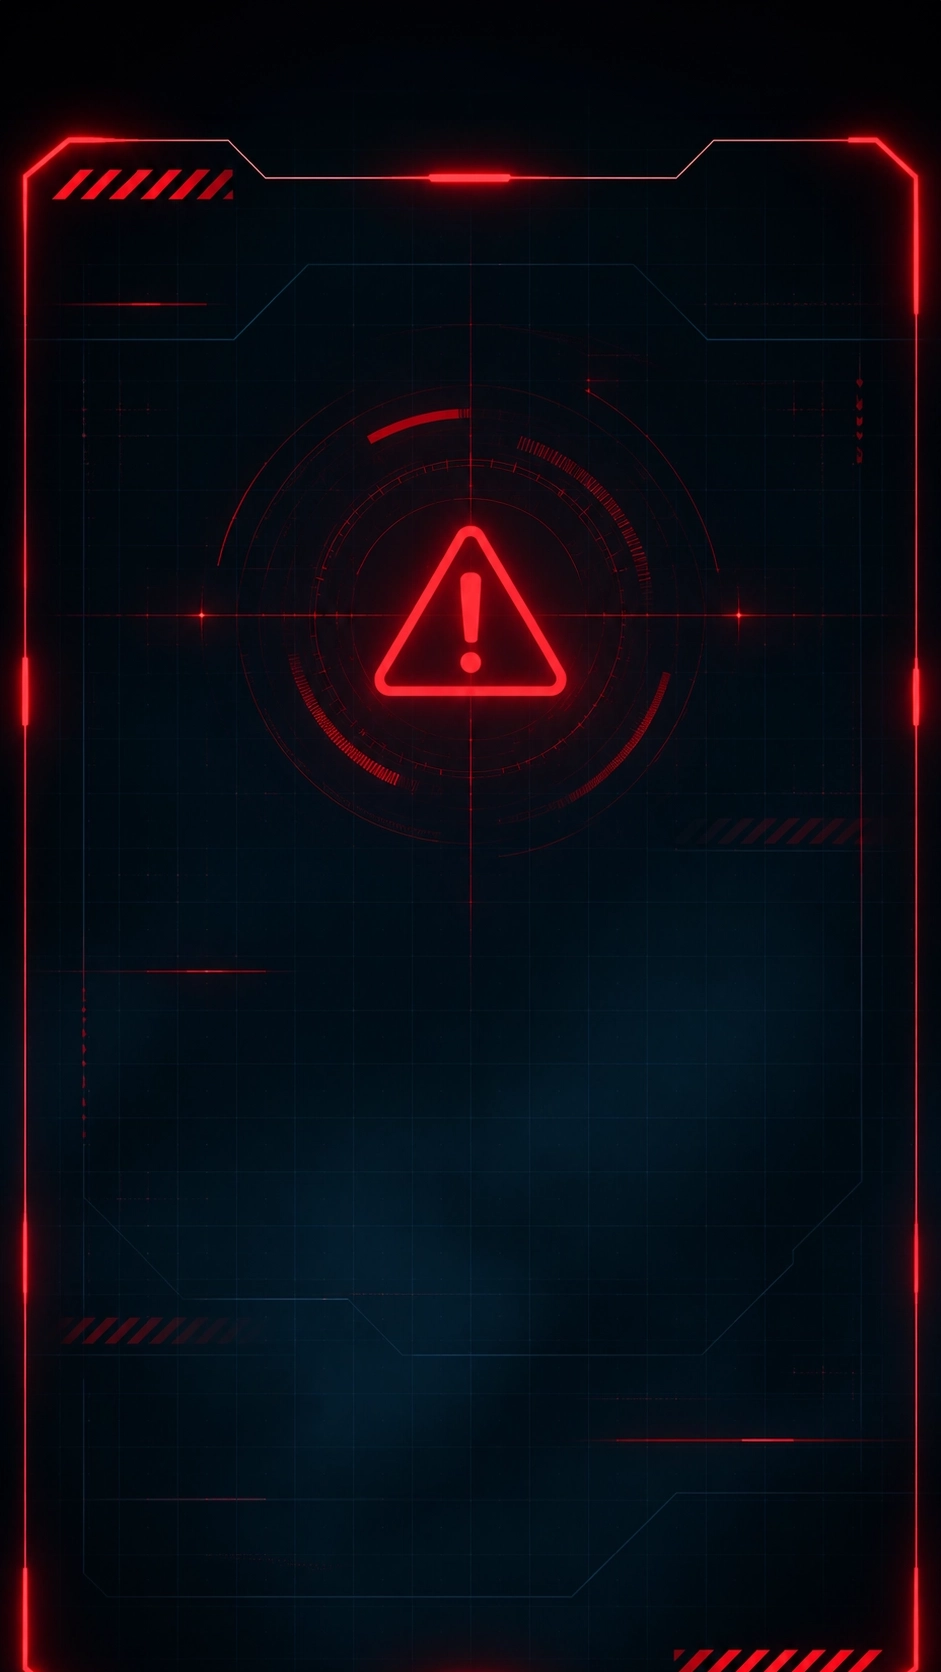
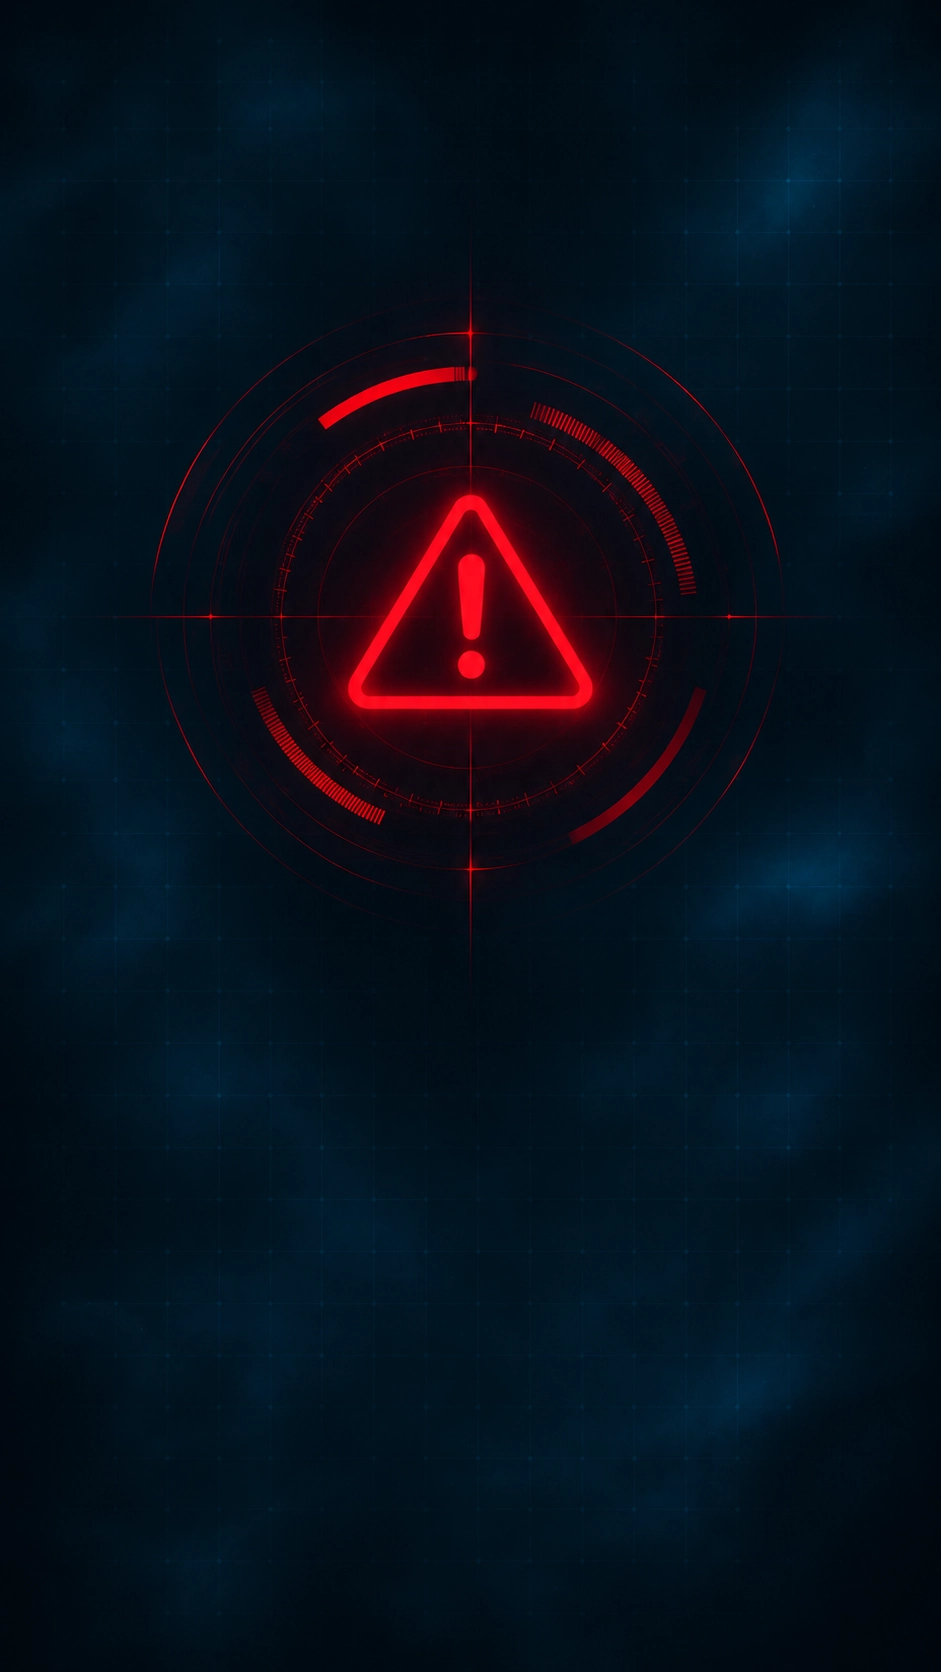
Några små justeringar för responsivitet

diff --git a/css/stylesystemcompromised.css b/css/stylesystemcompromised.css
@@ -1,6 +1,6 @@
 
 body {
-    overflow: hidden;
+    overflow: auto;
 }
 
 body::before {
@@ -12,8 +12,8 @@ body::before {
     width: 100%;
     height: 100lvh;
     background-image:
-        linear-gradient(rgba(120, 145, 165, 0.15),
-            rgba(120, 145, 165, 0.15)),
+        linear-gradient(rgba(120, 145, 165, 0.10),
+            rgba(120, 145, 165, 0.10)),
         url('../images/backgrounsystem_mobile.webp');
     background-size: cover;
     background-position: center;
@@ -24,9 +24,9 @@ body::before {
 .system {
     box-sizing: border-box;
     width: 90%;
-    margin: 3rem auto;
+    margin: 6rem auto 0;
     padding-top: 0.1rem;
-    background-color: rgba(8, 19, 29, 0.4);
+    background-color: rgba(8, 19, 29, 0.8);
     border: 1px solid #D4AF37;
     border-radius: 8px;
     text-align: center;
@@ -55,9 +55,9 @@ body::before {
 .systeminfo {
     box-sizing: border-box;
     width: 90%;
-    margin: 13rem auto;
+    margin: 2rem auto;
     padding-top: 0.1rem;
-    background-color: rgba(8, 19, 29, 0.4);
+    background-color: rgba(8, 19, 29, 0.8);
     border: 1px solid #D4AF37;
     border-radius: 8px;
     text-align: left;
@@ -120,8 +120,8 @@ body::before {
     width: 100%;
     height: 100lvh;
     background-image:
-        linear-gradient(rgba(120, 145, 165, 0.15),
-            rgba(120, 145, 165, 0.15)),
+        linear-gradient(rgba(120, 145, 165, 0.10),
+            rgba(120, 145, 165, 0.10)),
         url('../images/backgrounsystem_desktop.webp');
     background-size: cover;
     background-position: center top;
@@ -132,7 +132,7 @@ body::before {
 .system {
     width: 60%;
     max-width: 1000px;
-    margin: 6rem auto;
+    margin: 15rem auto 0;
 }
 
 .system h1 {
@@ -145,7 +145,7 @@ body::before {
 
 .systeminfo {
     width: 60%;
-    margin-top: 27rem;
+    margin-top: 2rem;
     max-width: 1000px;
 
 }
@@ -154,6 +154,6 @@ body::before {
   /* Anpassar informationsrutans placering på breda skärmar */
 @media (min-width: 1400px) {
     .systeminfo {
-        margin-top: 33rem;
+        margin-top: 3rem;
     }
 }
